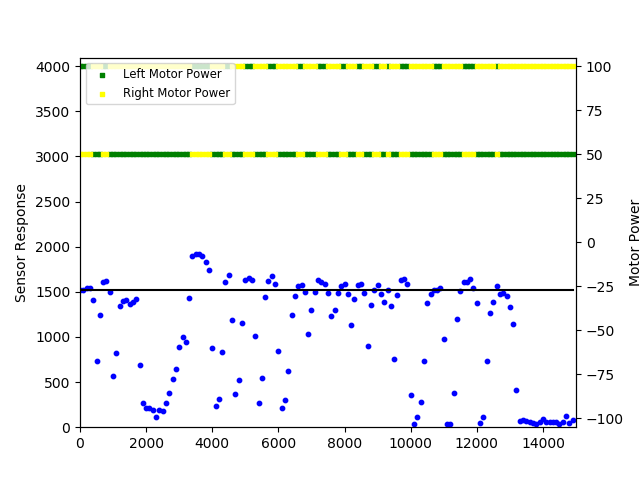
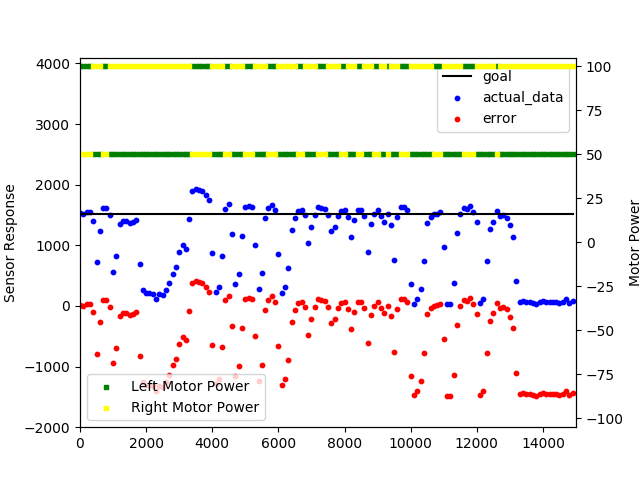
Had to edit the data visualization I was using.  Lab says we need to keep track of error.

diff --git a/Labs/Lab 5/analysis tools/DataVisualization.py b/Labs/Lab 5/analysis tools/DataVisualization.py
@@ -18,19 +18,21 @@ class DataVisualization():
         fig, axis = plt.subplots()
         axis.plot(time, goal, c='black', label="goal")
         axis.scatter(time, actual_data, s=10, marker='o', c='blue', label="actual_data")
-        axis.set_ylim((0, 4096))
+        axis.scatter(time, actual_data + -goal, s=10, marker='o', c='red', label='error')
+        axis.legend()
+        axis.set_ylim((-2000, 4096))
         axis.set_ylabel("Sensor Response")
 
         if left_motor_powers is not None:
             axis2 = axis.twinx()
             axis2.scatter(time, left_motor_powers, s=10, marker='s', c='green', label="Left Motor Power")
             axis2.scatter(time, right_motor_powers, s=10, marker='s', c='yellow', label="Right Motor Power")
+            axis2.legend()
             axis2.set_ylim((-105, 105))
             axis2.set_ylabel("Motor Power")
 
         plt.xlabel("Time (ms)")
         plt.xlim(0, len(time)*100)
-        plt.legend(loc=2, fontsize='small')
         plt.show()
 
     @staticmethod
@@ -44,14 +46,14 @@ class DataVisualization():
         return input("Menu Response: ")
 
     @staticmethod
-    def data_to_csv(file_name, actual_data, left_motor_powers, right_motor_powers):
+    def data_to_csv(file_name, actual_data, goal, left_motor_powers, right_motor_powers):
         with open(file_name, "w+") as csv_file:
-            csv_file.write("{},{},{}\n".format("actual_data", "left_motor_powers", "right_motor_powers"))
+            csv_file.write("{},{},{},{}\n".format("actual_data", "error", "left_motor_powers", "right_motor_powers"))
 
             for data_index in range(len(actual_data)):
                 if int(actual_data[data_index]) == 0:
                     break
-                csv_file.write("{},{},{}\n".format(actual_data[data_index], left_motor_powers[data_index], right_motor_powers[data_index]))
+                csv_file.write("{},{},{},{}\n".format(actual_data[data_index], goal-actual_data, left_motor_powers[data_index], right_motor_powers[data_index]))
 
 def convert_strlist_to_npint(strlist):
     list_representation = strlist.strip('][').split(", ")
